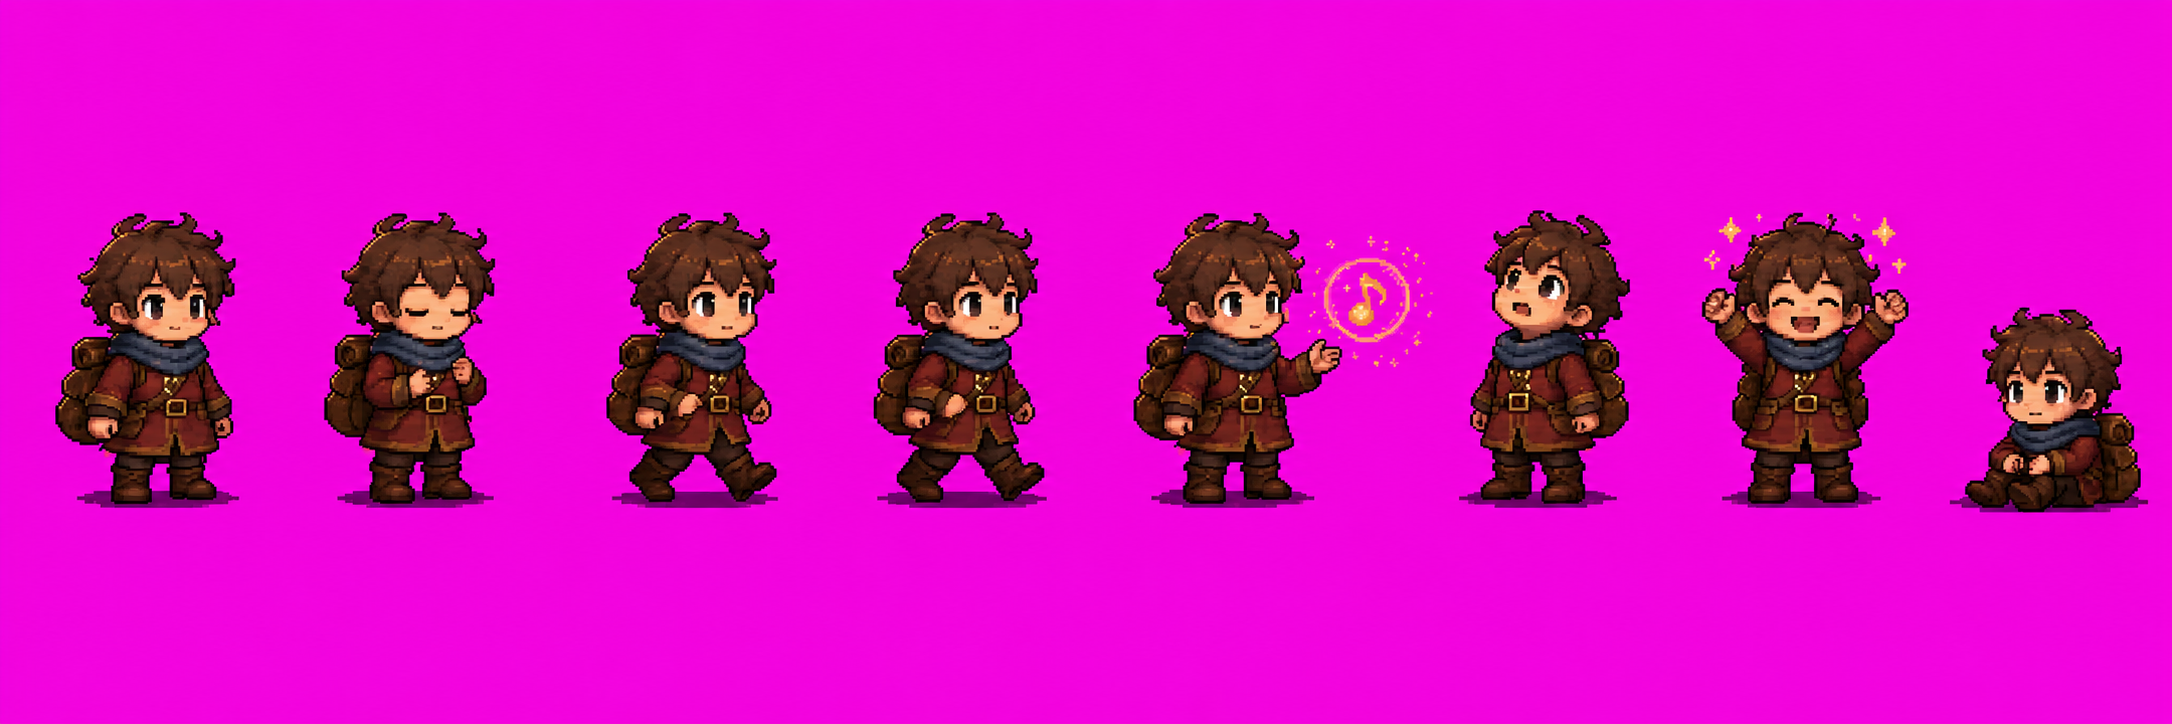
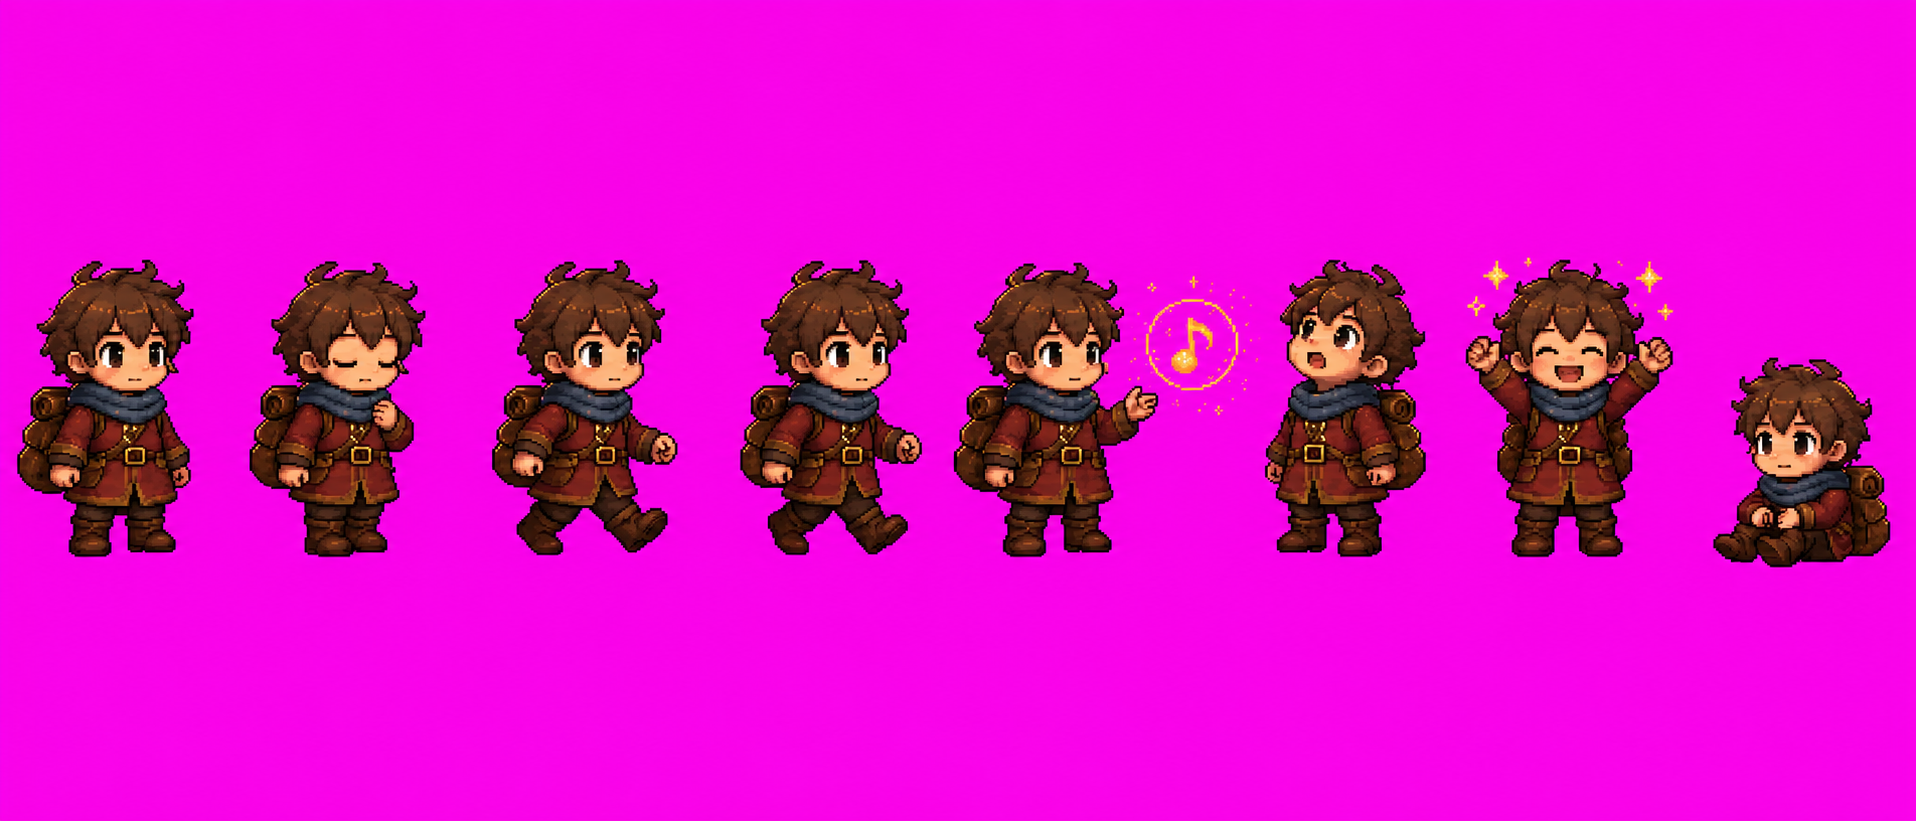
Pixel Quest: imported biome gateway landmarks
Slice pixelquest_pack_gates.png into 5 gate sprites and wire them as the
per-biome destination landmark. drawLandmark now draws the imported gate
(meadow/neon/moonlit/castle) at ground level with background parallax when
the texture is ready, falling back to the procedural landmark otherwise.

Moved the drawLandmark call out of drawMountains (which early-returns for
backdrop biomes, suppressing it) into the main render sequence so gates
show for all biomes. Arcade gate omitted — the magenta key eats its pink
invader/top-tube; needs a recolored re-export.

Changed region(s): [[0.0, 0.2735, 0.9854, 0.7293]]

diff --git a/src/pixelquest.js b/src/pixelquest.js
@@ -153,6 +153,16 @@ const BIOME_FOLIAGE = {
   "castle-approach": "castleFoliage",
 };
 
+// biome → imported gateway landmark asset (drawn where the procedural landmark
+// used to be). arcade-ruins has no entry (its gate art was damaged by the key),
+// so it keeps the procedural landmark.
+const BIOME_GATE = {
+  "meadow-road": "meadowGate",
+  "neon-forest": "neonGate",
+  "moonlit-town": "moonlitGate",
+  "castle-approach": "castleGate",
+};
+
 // STORYBOOK PROPORTIONS: a bigger hood/head (7 of 17 torso rows) with a
 // VISIBLE FACE and two dark eyes — a tiny warm human traveler, lovable and
 // readable from across the room. Same 16-wide dims as always, so every
@@ -931,10 +941,21 @@ export class PixelQuest {
       hc.fillRect(0, 0, pw, 20);
     }
     o.drawImage(this._haze, 0, base - 20);
-    this.drawLandmark(o, pal);
+    // (landmark is drawn in the main render sequence so it shows for backdrop
+    // biomes too, where drawMountains early-returns above)
   }
 
   drawLandmark(o, pal) {
+    // imported gateway landmark: a prominent gate at the hero's level (parallax
+    // 0.7) scrolling past once per world loop — the biome's destination.
+    const gate = BIOME_GATE[pal.biome];
+    if (this.useAssets() && gate && this.assets.ready(gate)) {
+      const goff = this.scrollX * 0.7;
+      const gsx = Math.round((((this.landmarkX - goff) % this.worldLen) + this.worldLen) % this.worldLen);
+      if (gsx < -90 || gsx > this.pw + 90) return;
+      this.assets.drawSprite(o, gate, "idle", 0, gsx, this.groundY(gsx) + 1, { anchor: "bottom-center", scale: 1.3 });
+      return;
+    }
     const off = this.scrollX * 0.3;
     const sx = Math.round(((this.landmarkX - off) % this.worldLen + this.worldLen) % this.worldLen);
     if (sx < -40 || sx > this.pw + 40) return;
@@ -2125,6 +2146,7 @@ export class PixelQuest {
     this.adventure.draw(o, pal, "destination"); // far-background silhouette
     this.events.draw(o, pal, "sky");
     this.drawMountains(o, pal);
+    this.drawLandmark(o, pal); // biome gateway/landmark (background parallax, behind props+hero)
     this.events.draw(o, pal, "background");
     this.adventure.draw(o, pal, "midground"); // e.g. the note bridge tiles
     this.adventure.draw(o, pal, "encounter-bg"); // encounters behind props/hero (giant, gate, arcade face)

diff --git a/src/pixelquest-assets.js b/src/pixelquest-assets.js
@@ -155,6 +155,13 @@ export const ASSET_MANIFEST = {
   arcadeFoliage: { src: "arcade_ruins_props_strip.png", frameW: 64, frameH: 84, anims: { v: { frames: [0, 1, 2] } }, anchor: "bottom-center", scale: 1, piSafe: true, fallback: "procedural" },
   castleFoliage: { src: "castle_approach_trees_strip.png", frameW: 64, frameH: 84, anims: { v: { frames: [0, 1, 2] } }, anchor: "bottom-center", scale: 1, piSafe: true, fallback: "procedural" },
   rocks: { src: "rocks_strip.png", frameW: 52, frameH: 40, anims: { v: { frames: [0, 1, 2] } }, anchor: "bottom-center", scale: 1, piSafe: true, fallback: "procedural" },
+  // -------- per-biome gateway landmarks (the destination the hero passes). The
+  // arcade gate is intentionally omitted — its pink/magenta parts were eaten by
+  // the key (needs a recolored re-export), so arcade keeps the procedural landmark.
+  meadowGate: { src: "gateMeadow.png", frameW: 112, frameH: 104, anims: { idle: { frames: [0] } }, anchor: "bottom-center", scale: 1, piSafe: true, fallback: "procedural" },
+  neonGate: { src: "gateNeon.png", frameW: 112, frameH: 104, anims: { idle: { frames: [0] } }, anchor: "bottom-center", scale: 1, piSafe: true, fallback: "procedural" },
+  moonlitGate: { src: "gateMoonlit.png", frameW: 112, frameH: 104, anims: { idle: { frames: [0] } }, anchor: "bottom-center", scale: 1, piSafe: true, fallback: "procedural" },
+  castleGate: { src: "gateCastle.png", frameW: 132, frameH: 108, anims: { idle: { frames: [0] } }, anchor: "bottom-center", scale: 1, piSafe: true, fallback: "procedural" },
 };
 
 // Parallax plates per biome: seamless horizontal-tiling strips. `src` (PNG)